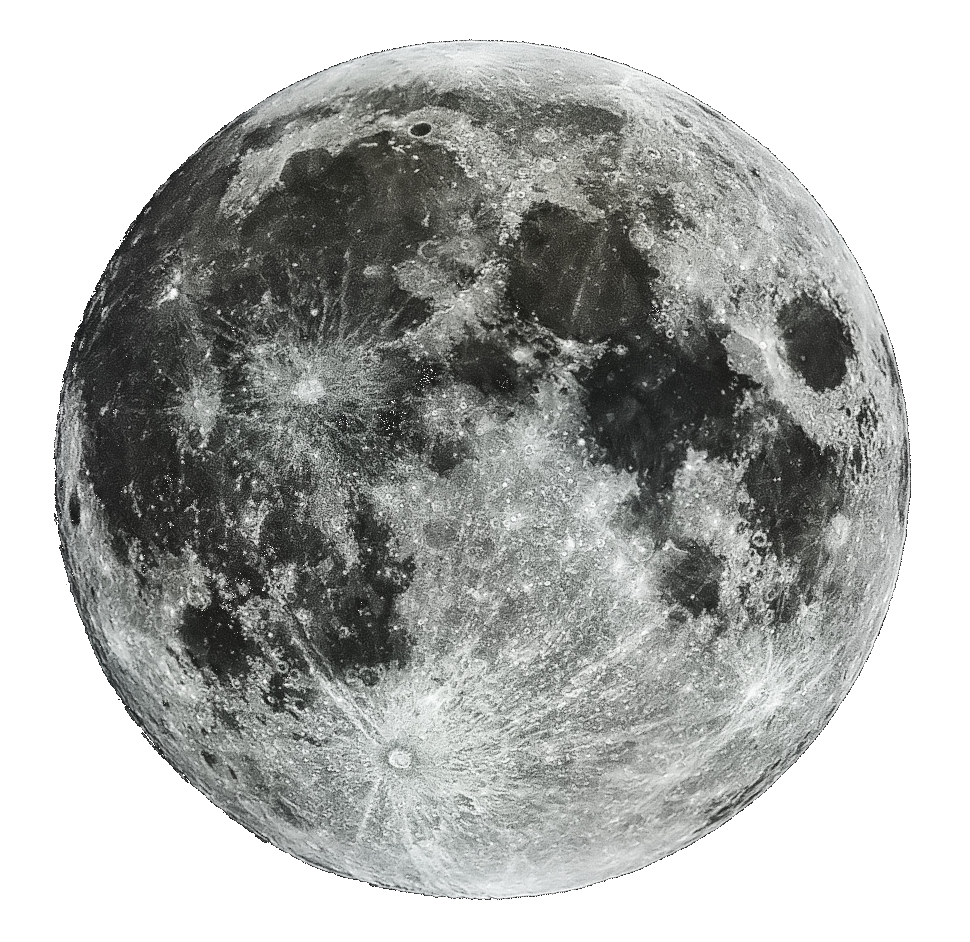
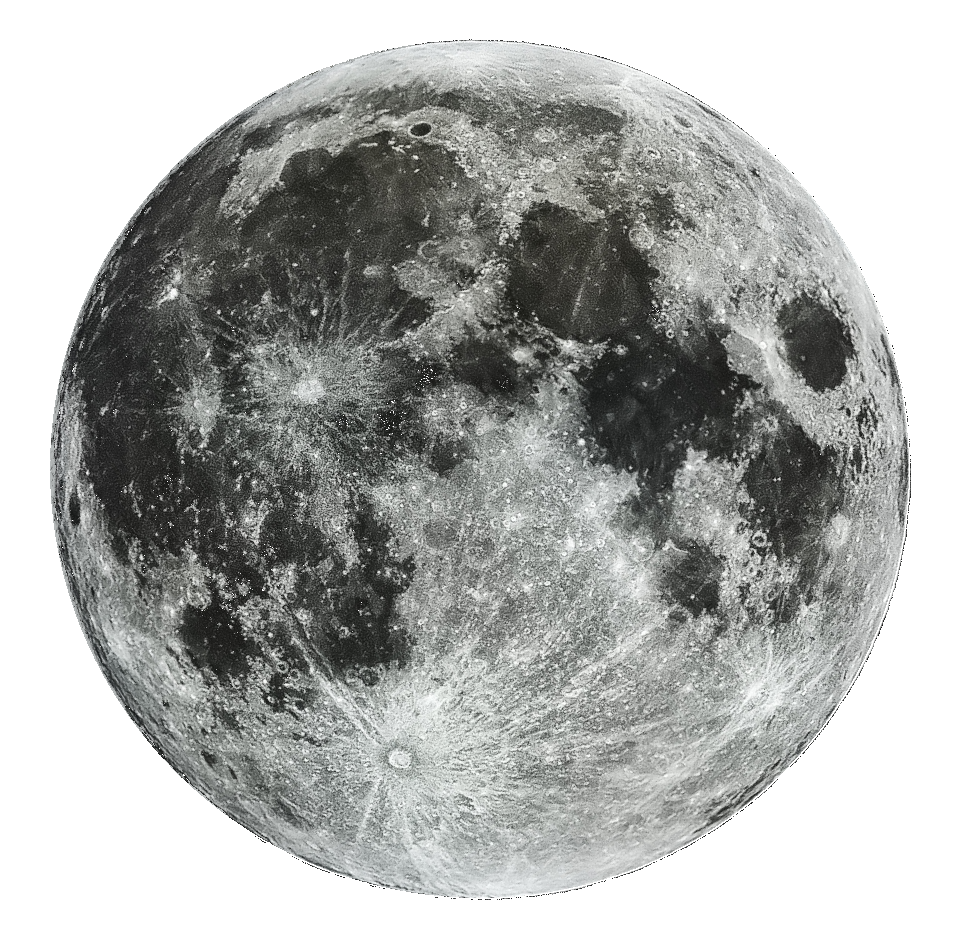
Switch LunarEclipseScreen to fullMoon.png, remove SmallFullMoon.png
Use fullMoon.png instead of SmallFullMoon.png in LunarEclipseScreen for
better quality and one fewer asset file. Draw eclipse moon image 25%
larger for better visibility. Updated fullMoon.png asset.

diff --git a/app/src/main/java/com/kenyoung/orrery/LunarEclipseScreen.kt b/app/src/main/java/com/kenyoung/orrery/LunarEclipseScreen.kt
@@ -1294,7 +1294,7 @@ private fun EclipseDetailView(
 
     // Load Full Moon image once from assets; rotate 180° for southern hemisphere
     val moonBitmap = remember(latitude) {
-        val original = context.assets.open("SmallFullMoon.png").use { BitmapFactory.decodeStream(it) }
+        val original = context.assets.open("fullMoon.png").use { BitmapFactory.decodeStream(it) }
         if (latitude < 0.0) {
             val matrix = android.graphics.Matrix().apply { postRotate(180f) }
             android.graphics.Bitmap.createBitmap(original, 0, 0, original.width, original.height, matrix, true).asImageBitmap()
@@ -1646,15 +1646,16 @@ private fun renderEclipse(
         val curSpY = -sin(curSpDec) * curDistCM
         val (curPx, curPy) = cmToPixels(curSpX, curSpY)
         val r = moonRadiusPixels.toFloat()
+        val imgR = r * 1.25f
         if (curPx - r >= earthMapLeft && curPx + r <= earthMapLeft + earthMapWidth &&
             curPy - r >= umbraMapTop && curPy + r <= umbraMapTop + umbraMapHeight) {
-            val diameter = (2 * moonRadiusPixels).coerceAtLeast(1)
+            val imgDiameter = (2 * imgR).toInt().coerceAtLeast(1)
             drawScope.drawImage(
                 moonBitmap,
                 srcOffset = IntOffset.Zero,
                 srcSize = IntSize(moonBitmap.width, moonBitmap.height),
-                dstOffset = IntOffset((curPx - r).toInt(), (curPy - r).toInt()),
-                dstSize = IntSize(diameter, diameter)
+                dstOffset = IntOffset((curPx - imgR).toInt(), (curPy - imgR).toInt()),
+                dstSize = IntSize(imgDiameter, imgDiameter)
             )
         }
     }
